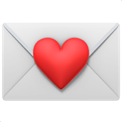
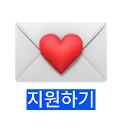
Add files via upload

diff --git a/script.js b/script.js
@@ -6,35 +6,73 @@ const closePopup = document.getElementById("closePopup");
 if (mobileFrame) {
 
     const icons = [
-        { src: "img/icon1.png", content: "아이콘 1 내용입니다.<br><br>스크롤 테스트용 텍스트.<br>".repeat(20) },
-        { src: "img/icon2.png", content: "아이콘 2 상세 내용입니다.<br>".repeat(25) },
-        { src: "img/icon3.png", content: "아이콘 3 설명입니다.<br>".repeat(30) },
-        { src: "img/icon4.png", content: "아이콘 4 관련 정보입니다.<br>".repeat(18) },
-        { src: "img/icon5.png", content: "아이콘 5 콘텐츠입니다.<br>".repeat(22) }
+        { src: "img/icon1.png", content: "아이콘 1 내용<br>".repeat(20) },
+        { src: "img/icon2.png", content: "아이콘 2 내용<br>".repeat(25) },
+        { src: "img/icon3.png", content: "아이콘 3 내용<br>".repeat(30) },
+        { src: "img/icon4.png", content: "아이콘 4 내용<br>".repeat(18) },
+        { src: "img/icon5.png", content: "아이콘 5 내용<br>".repeat(22) }
     ];
 
     const FRAME_WIDTH = mobileFrame.clientWidth;
     const FRAME_HEIGHT = mobileFrame.clientHeight;
-    const ICON_SIZE = 112;
 
     icons.forEach(iconData => {
-        const img = document.createElement("img");
-        img.src = iconData.src;
-        img.classList.add("icon");
+    const img = document.createElement("img");
+    img.src = iconData.src;
+    img.classList.add("icon");
 
-        const randomX = Math.random() * (FRAME_WIDTH - ICON_SIZE);
-        const randomY = Math.random() * (FRAME_HEIGHT - ICON_SIZE);
+    img.onload = () => {
+
+        const iconWidth = img.naturalWidth;
+        const iconHeight = img.naturalHeight;
+
+        const TOP_LIMIT = FRAME_HEIGHT * 0.4; // 상단 2/5 금지
+        const placedIcons = document.querySelectorAll(".icon");
+
+        let randomX, randomY;
+        let overlapping;
+        let attempts = 0;
+
+        do {
+            overlapping = false;
+
+            randomX = Math.random() * (FRAME_WIDTH - iconWidth);
+            randomY = TOP_LIMIT + Math.random() * (FRAME_HEIGHT - TOP_LIMIT - iconHeight);
+
+            for (let other of placedIcons) {
+                const rect = other.getBoundingClientRect();
+                const frameRect = mobileFrame.getBoundingClientRect();
+
+                const otherX = rect.left - frameRect.left;
+                const otherY = rect.top - frameRect.top;
+                const otherW = other.offsetWidth;
+                const otherH = other.offsetHeight;
+
+                if (
+                    randomX < otherX + otherW &&
+                    randomX + iconWidth > otherX &&
+                    randomY < otherY + otherH &&
+                    randomY + iconHeight > otherY
+                ) {
+                    overlapping = true;
+                    break;
+                }
+            }
+
+            attempts++;
+        } while (overlapping && attempts < 50);
 
         img.style.left = `${randomX}px`;
         img.style.top = `${randomY}px`;
+    };
 
-        img.addEventListener("click", () => {
-            popupContent.innerHTML = iconData.content;
-            popupOverlay.style.display = "flex";
-        });
-
-        mobileFrame.appendChild(img);
+    img.addEventListener("click", () => {
+        popupContent.innerHTML = iconData.content;
+        popupOverlay.style.display = "flex";
     });
+
+    mobileFrame.appendChild(img);
+});
 
     // 닫기 버튼
     closePopup.addEventListener("click", () => {

diff --git a/style.css b/style.css
@@ -17,7 +17,7 @@ body {
 .mobile-frame {
     width: 414px;
     height: 760px;
-    border-radius: 40px;
+    border-radius: 20px;
     overflow: hidden;
     box-shadow: 0 20px 50px rgba(0,0,0,0.15);
     position: relative;
@@ -30,12 +30,12 @@ body {
 
 /* 아이콘 */
 .icon {
-    width: 112px;
-    height: 112px;
     position: absolute;
     cursor: pointer;
     transition: transform 0.2s ease;
-    z-index: 1; /* 아이콘 기본 레이어 */
+    z-index: 1;
+    width: 112px;
+    height: auto;
 }
 
 .icon:active {
@@ -81,4 +81,77 @@ body {
     border: none;
     font-size: 20px;
     cursor: pointer;
+}
+
+/* ===== index 버튼 영역 ===== */
+
+.button-container {
+    position: absolute;
+    top: 50%;
+    left: 50%;
+    transform: translate(-50%, -20%);
+    
+    width: 85%;
+    
+    display: flex;
+    flex-direction: column;
+    gap: 20px;
+}
+
+.btn {
+    display: flex;
+    justify-content: center;
+    align-items: center;
+
+    height: 70px;
+    border-radius: 30px;
+
+    background: rgba(255, 255, 255, 0.9);
+    backdrop-filter: blur(10px);
+
+    text-decoration: none;
+    color: black;
+    font-size: 20px;
+    font-weight: 600;
+
+    box-shadow: 0 10px 25px rgba(0,0,0,0.15);
+    transition: all 0.2s ease;
+}
+
+.btn:active {
+    transform: scale(0.97);
+}
+
+/* ===== 뒤로가기 버튼 ===== */
+
+.back-btn {
+    position: absolute;
+    top: 24px;
+    left: 24px;
+
+    width: 44px;
+    height: 44px;
+
+    display: flex;
+    justify-content: center;
+    align-items: center;
+
+    border-radius: 50%;
+    text-decoration: none;
+
+    font-size: 30px;
+    font-weight: 300;
+    color: black;
+
+    background: rgba(255,255,255,0.85);
+    backdrop-filter: blur(8px);
+
+    box-shadow: 0 5px 15px rgba(0,0,0,0.15);
+    z-index: 1000;
+    transition: transform 0.15s ease;
+
+}
+
+.back-btn:active {
+    transform: scale(0.9);
 }

diff --git a/index.html b/index.html
@@ -3,7 +3,7 @@
 <head>
     <meta charset="UTF-8">
     <meta name="viewport" content="width=device-width, initial-scale=1.0">
-    <title>What's in my OSL?</title>
+    <title>OSL new recruit!</title>
     <link rel="stylesheet" href="style.css" />
 </head>
 
@@ -11,9 +11,9 @@
 
 <div class="mobile-frame">
     <div class="button-container">
-        <a href="home.html" class="btn">오소랩 열어보기</a>
+        <a href="home.html" class="btn">오소랩 소개</a>
         <a href="https://docs.google.com/forms" class="btn">2026-1 지원하기</a>
-        <a href="https://www.hioslab.com" class="btn">홈페이지 바로가기</a>
+        <a href="https://www.hioslab.com" class="btn">공식 웹사이트</a>
     </div>
 </div>
 

diff --git a/home.html b/home.html
@@ -9,6 +9,8 @@
 <body>
 
 <div class="mobile-frame" id="mobileFrame">
+
+    <a href="index.html" class="back-btn">‹</a>
     
     <!-- 팝업 -->
     <div class="popup-overlay" id="popupOverlay">
